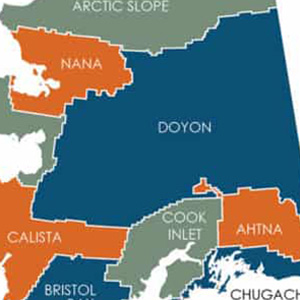
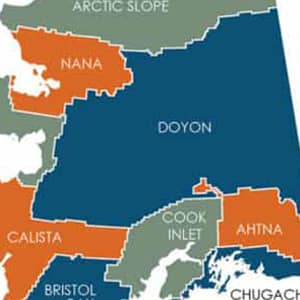
Incorporate more Yukon area types (#633)
* Incorporate more types of Yukon areas.

* Add additional guard for search results to prevent localstorage bug.

* Add mouseover highlighting for Yukon game management subzones.

* Update "The map on the left shows..." text to be more general (watersheds instead of HUCs).

* Add area type label to loading message for new Yukon area types.

* Add new Yukon areas to Places page.

* Adjust link target for Yukon fire districts

* Optimize images

---------

diff --git a/pages/places.vue b/pages/places.vue
@@ -239,6 +239,31 @@
           <div class="card-image is-small">
             <figure class="image">
               <img
+                src="~/assets/images/place_thumbnails/yukon-fire-districts_square.jpg"
+                alt="Example map showing Yukon Fire Districts"
+              />
+            </figure>
+          </div>
+          <div class="card-content">
+            <h3 class="title is-4">Yukon Fire Districts</h3>
+            <div class="content">
+              <p>
+                Fire districts are administrative areas where wildland fire
+                resources are allocated and deployed. They fall within one of
+                six larger fire regions.
+                <a
+                  href="https://wildfires.service.yukon.ca/"
+                  >Learn more about Yukon Fire Districts</a
+                >
+              </p>
+            </div>
+          </div>
+        </div>
+
+        <div class="card is-horizontal">
+          <div class="card-image is-small">
+            <figure class="image">
+              <img
                 src="~/assets/images/place_thumbnails/yukon-territories_square.jpg"
                 alt="Example map showing Yukon First Nation Traditional Territories"
               />
@@ -256,6 +281,57 @@
                 25 percent of Yukon’s population are Indigenous Peoples.
                 <a href="https://yukon.ca/en/find-out-about-yukon-first-nations"
                   >Learn more about Yukon First Nations</a
+                >
+              </p>
+            </div>
+          </div>
+        </div>
+
+        <div class="card is-horizontal">
+          <div class="card-image is-small">
+            <figure class="image">
+              <img
+                src="~/assets/images/place_thumbnails/yukon-gms_square.jpg"
+                alt="Example map showing Yukon Game Management Subzones"
+              />
+            </figure>
+          </div>
+          <div class="card-content">
+            <h3 class="title is-4">Yukon Game Management Subzones</h3>
+            <div class="content">
+              <p>
+                The Government of Yukon manages the harvest of wildlife within
+                Game Management Areas, which are legal boundaries within which
+                authorities can make regulations for managing big game. Areas
+                are a combination of Game Management Zones and Subzones.
+                Information is displayed at the subzone level.
+                <a
+                  href="https://yukon.ca/en/outdoor-recreation-and-wildlife/hunting-and-trapping/find-game-management-area-map-data"
+                  >Learn more about Yukon Game Management Subzones</a
+                >
+              </p>
+            </div>
+          </div>
+        </div>
+
+        <div class="card is-horizontal">
+          <div class="card-image is-small">
+            <figure class="image">
+              <img
+                src="~/assets/images/place_thumbnails/yukon-watersheds_square.jpg"
+                alt="Example map showing Yukon Watersheds"
+              />
+            </figure>
+          </div>
+          <div class="card-content">
+            <h3 class="title is-4">Yukon Watersheds</h3>
+            <div class="content">
+              <p>
+                Yukon Watersheds are based on the Water Survey of Canada
+                drainage area boundaries at the sub-sub-basin level, roughly
+                equivalent to United States HU-8 level in scale.
+                <a href="https://open.yukon.ca/data/datasets/watersheds-1m"
+                  >Learn more about Yukon Watersheds</a
                 >
               </p>
             </div>

diff --git a/components/PlaceSelector.vue b/components/PlaceSelector.vue
@@ -29,6 +29,12 @@
                 >
                 <span
                   class="area-additional-info"
+                  v-if="props.option.type == 'yt_watershed'"
+                >
+                  Yukon Watershed
+                </span>
+                <span
+                  class="area-additional-info"
                   v-if="props.option.type == 'protected_area'"
                 >
                   {{ props.option.area_type }}
@@ -59,6 +65,12 @@
                 </span>
                 <span
                   class="area-additional-info"
+                  v-if="props.option.type == 'yt_fire_district'"
+                >
+                  Yukon Fire District
+                </span>
+                <span
+                  class="area-additional-info"
                   v-if="props.option.type == 'first_nation'"
                 >
                   First Nation Traditional Territory
@@ -68,6 +80,12 @@
                   v-if="props.option.type == 'game_management_unit'"
                 >
                   Game Management Unit
+                </span>
+                <span
+                  class="area-additional-info"
+                  v-if="props.option.type == 'yt_game_management_subzone'"
+                >
+                  Yukon Game Management Subzone
                 </span>
                 <span
                   class="area-additional-info"
@@ -100,12 +118,14 @@
               <li>Alaska Game Management Units (GMUs)</li>
               <li>Alaska Native Corporations</li>
               <li>Boroughs and Census Areas</li>
+              <li>Ethnolinguistic Divisions</li>
+              <li>Yukon First Nation Traditional Territories</li>
+              <li>Yukon Fire Districts</li>
               <li>Communities in Alaska and Canada</li>
             </ul>
           </div>
           <div class="column">
             <ul>
-              <li>Ethnolinguistic Divisions</li>
               <li>
                 <strong>Hydrological units (HUs)</strong> searchable by HU Code
                 (HUC8, HUC10) and name
@@ -114,7 +134,11 @@
                 <strong>Protected areas</strong>&nbsp;&nbsp;National Parks and
                 more, searchable by name and agency
               </li>
-              <li>Yukon First Nation Traditional Territories</li>
+              <li>
+                <strong>Yukon Game Management Subzones</strong> searchable by
+                code
+              </li>
+              <li><strong>Yukon Watersheds</strong> searchable by code</li>
             </ul>
           </div>
         </div>

diff --git a/store/place.js b/store/place.js
@@ -128,6 +128,8 @@ export const getters = {
             return area.name + ' Watershed HUC10 ' + area.id
           }
           return area.name + ' Watershed HUC8 ' + area.id
+        case 'yt_watershed':
+          return area.name + ' (Yukon Watershed)'
         case 'corporation':
           return area.name + ' (Native Corporation)'
         case 'climate_division':
@@ -136,10 +138,14 @@ export const getters = {
           return area.name + ' (Ethnolinguistic Region)'
         case 'fire_zone':
           return area.name + ' (Fire Management Unit)'
+        case 'yt_fire_district':
+          return area.name + ' (Yukon Fire District)'
         case 'first_nation':
           return area.name + ' (First Nation Traditional Territory)'
         case 'game_management_unit':
           return area.name + ' (Game Management Unit)'
+        case 'yt_game_management_subzone':
+          return area.name + ' (Yukon Game Management Subzone)'
         case 'borough':
           return area.name + ' (Borough)'
         default:
@@ -251,13 +257,22 @@ export const actions = {
         _.each(res.fire_management_units_near, place => {
           ssr.push(place)
         })
+        _.each(res.yt_fire_districts_near, place => {
+          ssr.push(place)
+        })
         _.each(res.hucs_near, place => {
+          ssr.push(place)
+        })
+        _.each(res.yt_watersheds_near, place => {
           ssr.push(place)
         })
         _.each(res.protected_areas_near, place => {
           ssr.push(place)
         })
         _.each(res.game_management_units_near, place => {
+          ssr.push(place)
+        })
+        _.each(res.yt_game_management_subzones_near, place => {
           ssr.push(place)
         })
         _.each(res.ca_first_nations_near, place => {

diff --git a/components/SearchResults.vue b/components/SearchResults.vue
@@ -6,11 +6,11 @@
 
     <div v-if="searchBlocks.areas.length">
       <p>
-        The map on the left shows hydrological units (HUC-8, HUC-10) and
-        protected areas near the point you selected. Additional areas of
-        interest (ethnolinguistic regions, fire management units, climate
-        divisions and Native corporations) are not shown on the map because they
-        are large, but are included in the list of matching areas below.
+        The map on the left shows watersheds and protected areas near the point
+        you selected. Additional areas of interest (ethnolinguistic regions,
+        fire management units, climate divisions and Native corporations) are
+        not shown on the map because they are large, but are included in the
+        list of matching areas below.
       </p>
 
       <ul>
@@ -143,14 +143,23 @@ export default {
           placeType =
             'HUC' + (place.id.length == 10 ? '10 ' : '8 ') + 'ID' + place.id
           break
+        case 'yt_watershed':
+          placeType = 'Yukon Watershed'
+          break
         case 'climate_division':
           placeType = 'Climate Division'
           break
         case 'fire_zone':
           placeType = 'Fire Management Unit'
           break
+        case 'yt_fire_district':
+          placeType = 'Yukon Fire District'
+          break
         case 'game_management_unit':
           placeType = 'Game Management Unit'
+          break
+        case 'yt_game_management_subzone':
+          placeType = 'Yukon Game Management Subzone'
           break
         case 'first_nation':
           placeType = 'First Nation Traditional Territory'

diff --git a/components/Map.vue b/components/Map.vue
@@ -145,7 +145,7 @@ export default {
     drawSearchResults() {
       // This can be triggered before the data are ready;
       // guard!
-      if (this.searchResults) {
+      if (this.searchResults && this.searchResults.total_bounds) {
         // Clear prior results, if any.
         if (this.layerGroup || this.communityLayerGroup) {
           this.map.removeLayer(this.layerGroup)
@@ -187,16 +187,24 @@ export default {
           _.each(this.searchResults.areas, area => {
             // Skip all but HUCs and Protected Areas, the other polygons
             // get so big they cause the map interface to work poorly.
-            if (area.type != 'huc' && area.type != 'protected_area') {
+            if (
+              area.type != 'huc' &&
+              area.type != 'protected_area' &&
+              area.type != 'yt_watershed' &&
+              area.type != 'yt_game_management_subzone'
+            ) {
               return
             }
 
             let defaultStyle, highlightedStyle
             // Set up the layer styles for HUC/Protected area
-            if (area.type == 'huc') {
+            if (area.type == 'huc' || area.type == 'yt_watershed') {
               defaultStyle = hucDefaultStyle
               highlightedStyle = hucHighlightedStyle
-            } else if (area.type == 'protected_area') {
+            } else if (
+              area.type == 'protected_area' ||
+              area.type == 'yt_game_management_subzone'
+            ) {
               defaultStyle = protectedAreaDefaultStyle
               highlightedStyle = protectedAreaHighlightedStyle
             }

diff --git a/utils/path.js b/utils/path.js
@@ -9,10 +9,13 @@ export const getAppPathFragment = function (type, id) {
     type == 'climate_division' ||
     type == 'ethnolinguistic_region' ||
     type == 'fire_zone' ||
+    type == 'yt_fire_district' ||
     type == 'first_nation' ||
     type == 'game_management_unit' ||
+    type == 'yt_game_management_subzone' ||
     type == 'borough' ||
-    type == 'census_area'
+    type == 'census_area' ||
+    type == 'yt_watershed'
   ) {
     path = '/report/area/' + id
   } else {
